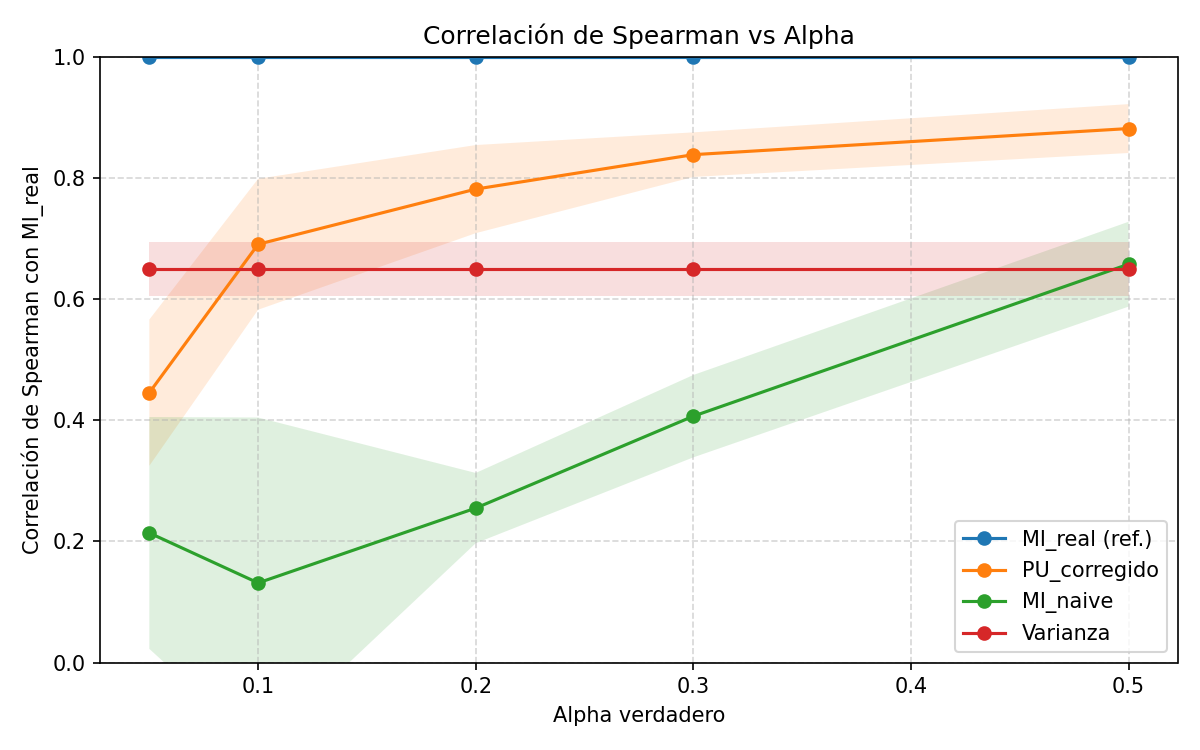
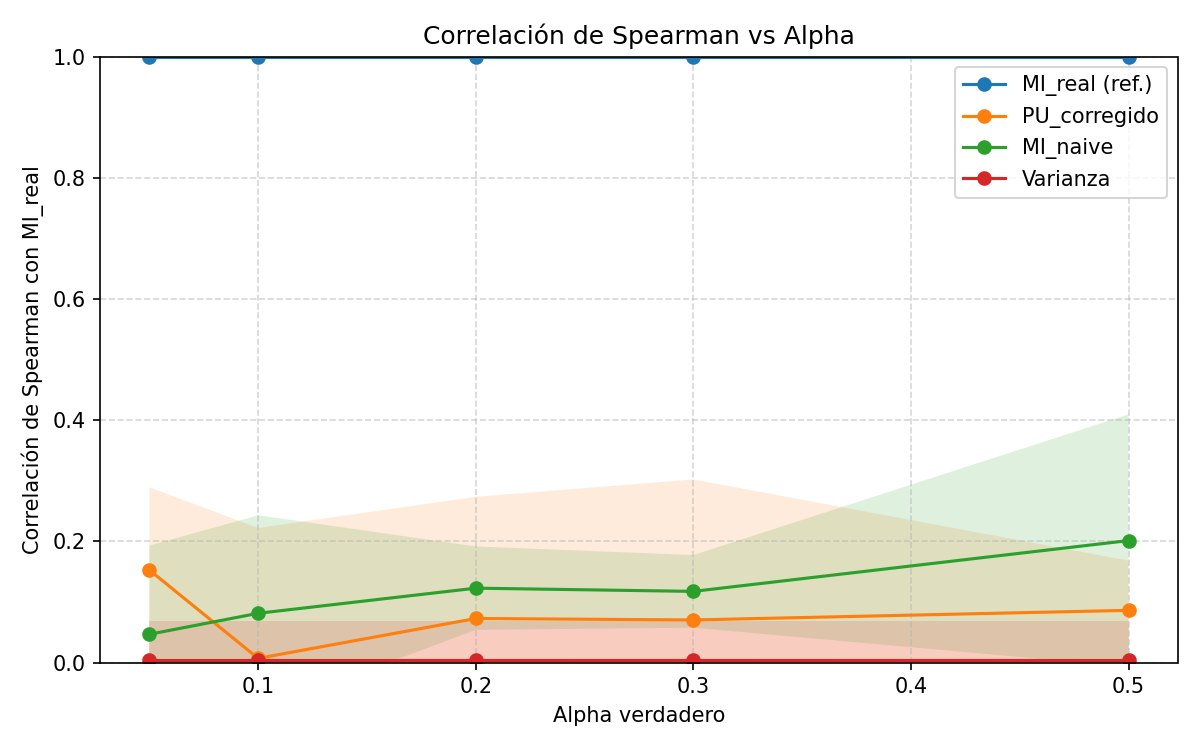
pipeline sonar sin ruido

diff --git a/main.py b/main.py
@@ -4,7 +4,9 @@ import matplotlib
 matplotlib.use('Agg')  # backend sin ventana
 import matplotlib.pyplot as plt
 import mlflow
-from sklearn.datasets import load_breast_cancer
+from mlflow.tracking import MlflowClient
+from sklearn.datasets import fetch_openml
+from sklearn.preprocessing import LabelEncoder
 
 from sklearn.model_selection import train_test_split
 
@@ -31,13 +33,25 @@ def _ranking_instability(rankings_list):
 
 def main():
     """Ejecuta experimento según el modo configurado (single o sweep)."""
-    X, y = load_breast_cancer(return_X_y=True)
-    feature_names = load_breast_cancer().feature_names
+    sonar = fetch_openml(name='sonar', version=1, as_frame=False, parser='auto')
+    X = sonar.data.astype(float)
+    le = LabelEncoder()
+    y = le.fit_transform(sonar.target)  # Mine=0, Rock=1 (alfabético)
+    # Reordenar para que Mine (objeto metálico, "positivo") sea y=1
+    if le.classes_[0] == 'Mine':
+        y = 1 - y
+    feature_names = np.array(sonar.feature_names)
 
     # En modo single se itera una sola vez; en sweep se recorre la rejilla completa
     alphas = SWEEP_ALPHAS if RUN_MODE == 'sweep' else [ALPHA_TRUE]
     seeds  = SWEEP_SEEDS  if RUN_MODE == 'sweep' else [RANDOM_STATE]
 
+    client = MlflowClient()
+    exp = client.get_experiment_by_name(EXPERIMENT_NAME)
+    if exp is None:
+        client.create_experiment(EXPERIMENT_NAME, tags={"mlflow.experimentType": "TRAINING"})
+    elif "mlflow.experimentType" not in (exp.tags or {}):
+        client.set_experiment_tag(exp.experiment_id, "mlflow.experimentType", "TRAINING")
     mlflow.set_experiment(EXPERIMENT_NAME)
 
     with mlflow.start_run(run_name=RUN_NAME):
@@ -47,7 +61,7 @@ def main():
         n_negatives = int((y == 0).sum())
         class_balance = round(n_positives / n_samples, 4) # proporción de positivos (que tan minoritaria es la clase positiva)
 
-        mlflow.log_param("dataset",            "breast_cancer")
+        mlflow.log_param("dataset",            "sonar")
         mlflow.log_param("n_samples",          n_samples)
         mlflow.log_param("n_features",         n_features)
         mlflow.log_param("n_positives",        n_positives)
@@ -226,7 +240,7 @@ def main():
                 mlflow.log_metric(f'alpha_{a}_stability_pu',         float(row['stability_pu']))
                 mlflow.log_metric(f'alpha_{a}_stability_naive',      float(row['stability_naive']))
 
-            # --- Gráfico 1: AUC vs alpha por método ---
+            # Gráfico 1: AUC vs alpha por método
             metodos = ['PU_corregido', 'MI_naive', 'MI_real', 'Varianza']
             auc_summary = df.groupby('alpha_true')[
                 [f'auc_{m}' for m in metodos]
@@ -250,7 +264,7 @@ def main():
             plt.close(fig)
             mlflow.log_artifact('auc_vs_alpha.png')
 
-            # --- Gráfico 2: Correlación de Spearman vs alpha ---
+            # Gráfico 2: Correlación de Spearman vs alpha
             fig2, ax2 = plt.subplots(figsize=(8, 5))
             for label, col_mean, col_std in [
                 ('MI_real (ref.)', 'spearman_real_mean',  'spearman_real_std'),
@@ -275,7 +289,7 @@ def main():
             plt.close(fig2)
             mlflow.log_artifact('spearman_vs_alpha.png')
 
-            # --- Gráfico 3: Estabilidad del ranking vs alpha ---
+            # Gráfico 3: Estabilidad del ranking vs alpha
             fig3, ax3 = plt.subplots(figsize=(8, 5))
             for label, col in [
                 ('PU_corregido', 'stability_pu'),

diff --git a/pruebas.py b/pruebas.py
@@ -1,11 +1,20 @@
-from sklearn.datasets import load_breast_cancer
+from sklearn.datasets import fetch_openml
+from sklearn.preprocessing import LabelEncoder
 import pandas as pd
-data = load_breast_cancer()
+import numpy as np
 
 # Cargar dataset
-X, y = load_breast_cancer(return_X_y=True)
+sonar = fetch_openml(name='sonar', version=1, as_frame=False, parser='auto')
+X = sonar.data.astype(float)
+le = LabelEncoder()
+y = le.fit_transform(sonar.target)  # Mine=0, Rock=1 (alfabético)
+# Reordenar para que Mine (objeto metálico, "positivo") sea y=1
+if le.classes_[0] == 'Mine':
+    y = 1 - y
+# Nombres de características
+feature_names = sonar.feature_names
 print("DATASET CARGADO.\nNúmero de muestras:", X.shape[0], "\nNúmero de características:", X.shape[1])
 
-df = pd.DataFrame(X, columns=load_breast_cancer().feature_names)
+df = pd.DataFrame(X, columns=feature_names)
 print("Primeras 5 filas del dataset:\n")
 print(df.head())

diff --git a/src/config.py b/src/config.py
@@ -9,9 +9,9 @@ SWEEP_ALPHAS = [0.5, 0.3, 0.2, 0.1, 0.05]
 SWEEP_SEEDS = [0, 1, 2, 3, 4]
 
 # Ruido gaussiano en features (0 = sin ruido; p.ej. 0.3 = 30% de la std por feature)
-NOISE_LEVEL = 1
+NOISE_LEVEL = 0
 
 # Parámetros generales
 TOP_K = 10
-EXPERIMENT_NAME = "breast_cancer"
-RUN_NAME = "v2.2.1"
+EXPERIMENT_NAME = "sonar"
+RUN_NAME = "v1.0.0"
